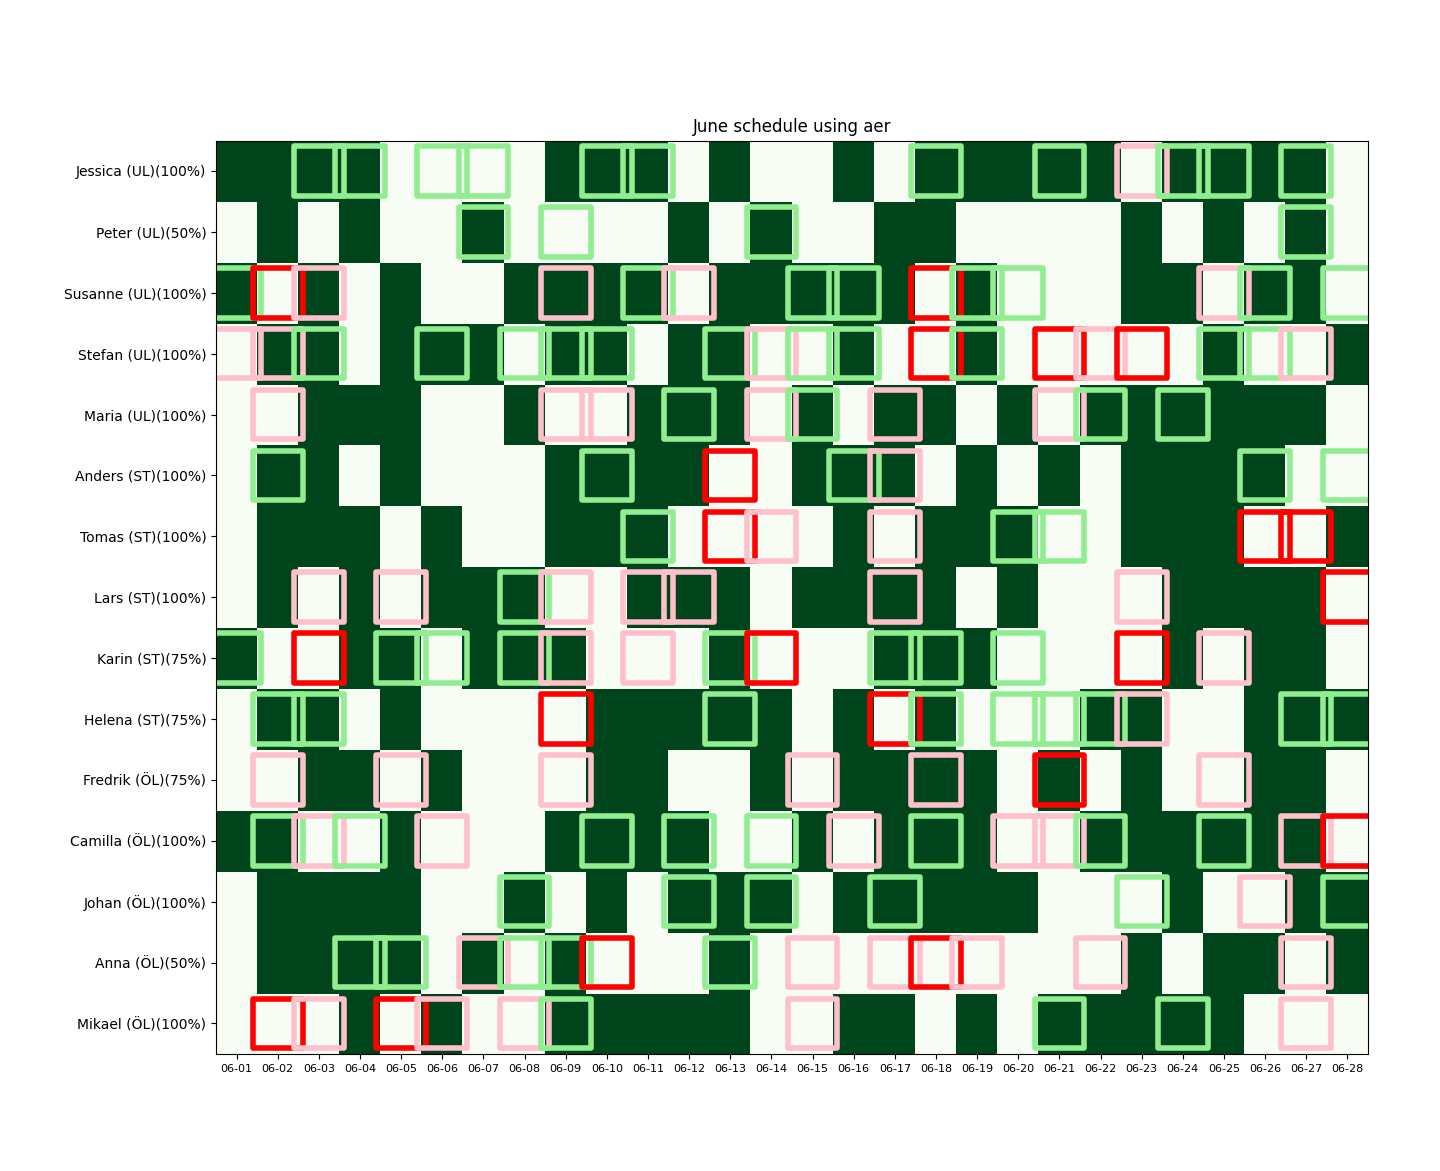
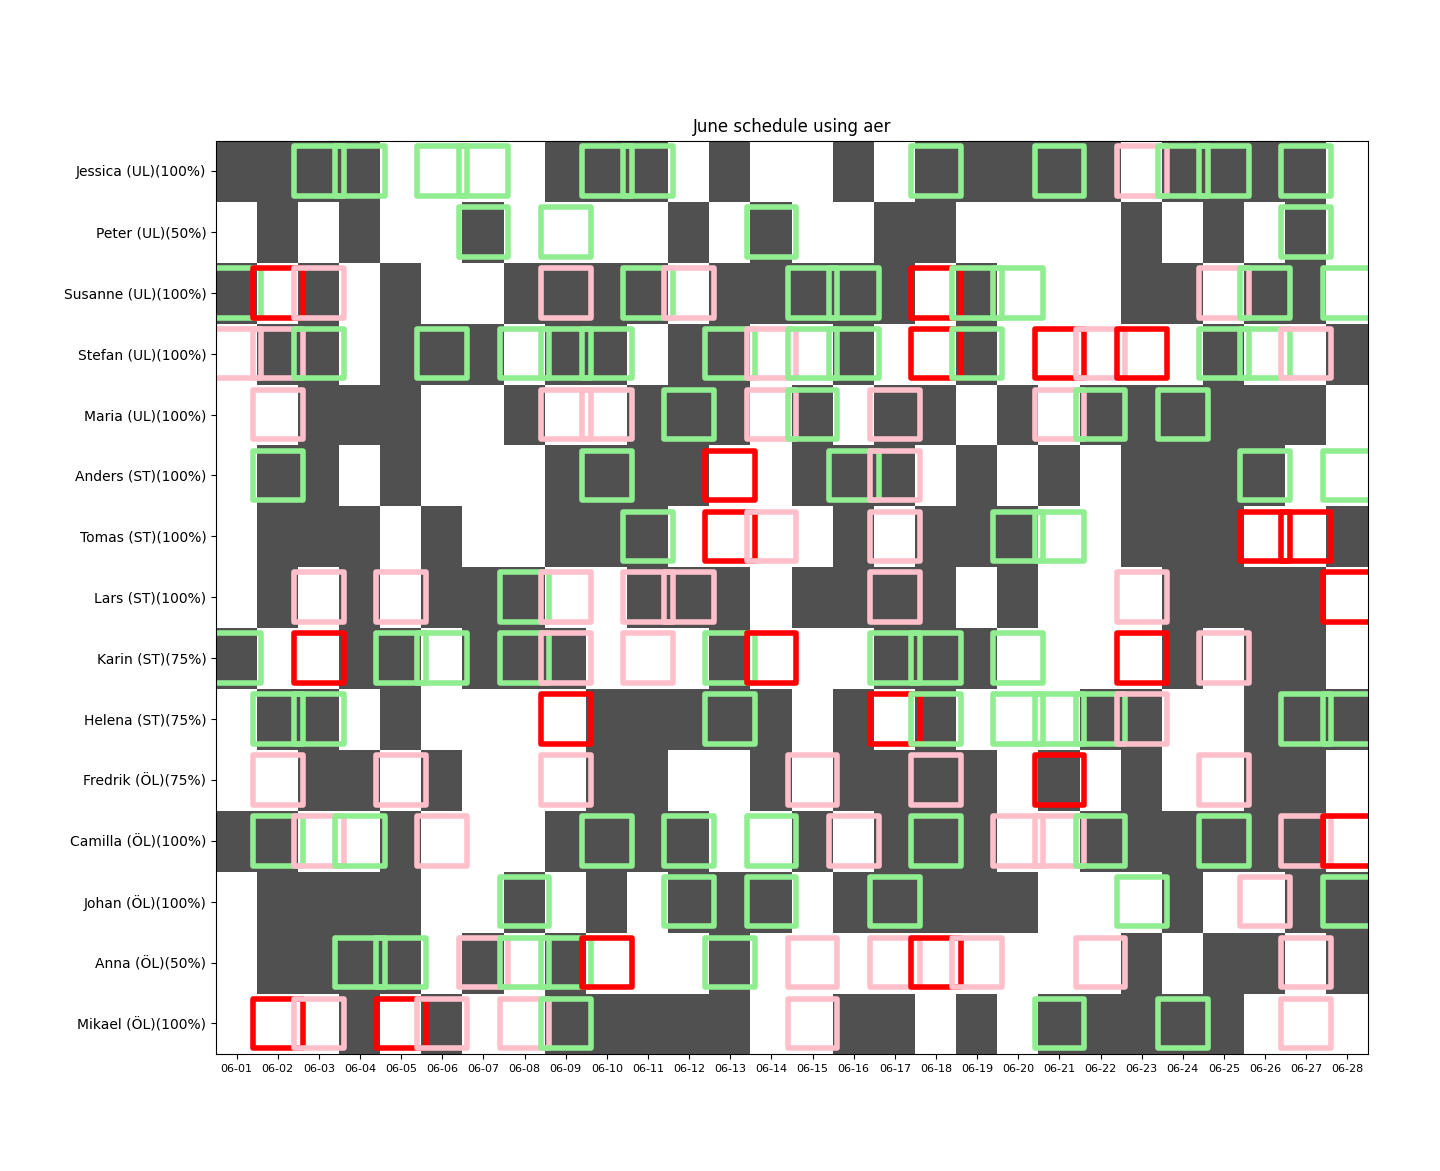
gray tiles

Changed region(s): [[0.125, 0.123, 0.9688, 0.9223]]

diff --git a/plot_stats_june.py b/plot_stats_june.py
@@ -39,7 +39,7 @@ def printDataJune(method:str):
     physicians_compare.append(all_data[method]['physician path'])
 
 def plotDataJune(method:str, schedule=True):
-    
+    colors = {'ibm':'skyblue', 'z3':'tab:orange', 'aer':'green'}
     # TODO PLOT RUNS DATA         # 'run': {'full time':end_time-start_time, 'Hc full':qaoa_Hc_cost, 'bitstring':qaoa_bitstring, 'demands':demands, 'layers':n_layers,'search iterations (if aer)':search_iterations, 'pref seed':preference_seed,'n candidates':n_candidates,'lambdas':lambdas, 'constraints':constraint_scores}
     times_plot.append(all_data[method]['run']['full time'])
     Hcs_plot.append(all_data[method]['run']['Hc full'])
@@ -70,7 +70,7 @@ def plotDataJune(method:str, schedule=True):
         evaluator_m = Evaluator(all_data[method]['schedule'], cl, time_period, lambdas, physician_path='data/intermediate/physician_universal_june.csv') # TODO: should be same prefs & exts as: f'data/results/physician/{method}_15phys_time{timestamps[method]}.csv'
         evaluator_m.makeResultMatrix()
         evaluator_m.evaluateConstraints(1)
-        fig = evaluator_m.cleanPlot(width=20,title=f'June schedule using {method}')
+        fig = evaluator_m.cleanPlot(width=20,title=f'June schedule using {method}', tile_col = colors[method])
         fig.savefig(f'data/results/final_plots/june/schedules/{method}_final_schedule.png')
 
 
@@ -93,7 +93,7 @@ def plotStats(plot_data, methods, title='', ylabel=''):
     plt.show()
 
 n_physicians = 15 # SHOULD BE 15 
-methods = ['aer', 'ibm', 'z3']   #, 'ibm', 'gurobi', 'z3'] #maybe not z3
+methods = ['aer', 'ibm', 'z3']#'gurobi']   #, 'ibm', 'gurobi', 'z3'] #maybe not z3
 all_data = {}
 time_period = 'all'
 cl = 3
@@ -111,7 +111,7 @@ for method in methods:
     printDataJune(method)
     plotDataJune(method, schedule=True) # Plot schedule and append stats to lists
 
-
+"""
 plotStats(times_plot, methods, title='Full computation time', ylabel='Time [s]')
 plotStats(Hcs_plot, methods, title='Hc costs')
 plotStats(manys_plot, methods, title='Too many workers')
@@ -120,7 +120,7 @@ plotStats(titles_plot, methods, title='Wrong number of assigned titles')
 plotStats(sat_avgs_plot, methods, title='Satisfaction', ylabel='Avg. satisfaction score')
 plotStats(sat_vars_plot, methods, title='Satisfaction fairness', ylabel='Variance in satisfaction scores')
 plotStats(extents_plot, methods, title='Employment extent error', ylabel='Avg. distance from target n.o. shifts [%]')
-plotStats(unavails_plot, methods, title='Shifts assigned to unavailable physicians')
+plotStats(unavails_plot, methods, title='Shifts assigned to unavailable physicians')"""
 
 if 'aer' in methods and 'ibm' in methods:
     # Plot 2-gates and circuit depth

diff --git a/postprocessing/postprocessing.py b/postprocessing/postprocessing.py
@@ -3,6 +3,8 @@ import numpy as np
 import matplotlib.pyplot as plt
 from qaoa.converters import *
 from collections import Counter
+from matplotlib.colors import ListedColormap
+
 
 #from ..preprocessing.preprocessing import makeObjectiveFunctions, objectivesToQubo
 #from ..qaoa.qaoa import QToHc, costOfBitstring
@@ -348,12 +350,23 @@ class Evaluator:
 
         return fig
     
-    def cleanPlot(self, width=10, show_plot=True, title=''):
+    def cleanPlot(self, width=10, show_plot=True, title='', tile_col=None):
         x_size = width
         # y_size = 8 
         y_size = self.n_physicians/self.n_shifts * x_size + 1
         fig, ax = plt.subplots(figsize=(x_size,y_size))
-        result = ax.pcolor(np.arange(self.n_shifts+1)-0.5, np.arange(self.n_physicians+1)-0.5,self.result_matrix, cmap="Greens", vmax=1,vmin=0)
+        if tile_col == 'skyblue':
+            cmap = ListedColormap(['white', '#505050'])
+
+            #cmap, vmax, vmin = 'skyblue',0,0#'Blues',1.5,0
+        elif tile_col == 'tab:orange':
+            cmap = ListedColormap(['white', '#505050'])
+            #cmap, vmax, vmin='tab:orange',0,0#'Oranges',2,0
+        else:
+            cmap = ListedColormap(['white', '#505050'])
+            #cmap, vmax, vmin ='green',0,0#"Green",1,0
+
+        result = ax.pcolor(np.arange(self.n_shifts+1)-0.5, np.arange(self.n_physicians+1)-0.5, self.result_matrix, cmap=cmap)#, vmax=vmax,vmin=vmin)
 
         if self.cl>=2:  # PREFERENCE squares
             if self.lambdas['pref'] != 0:
